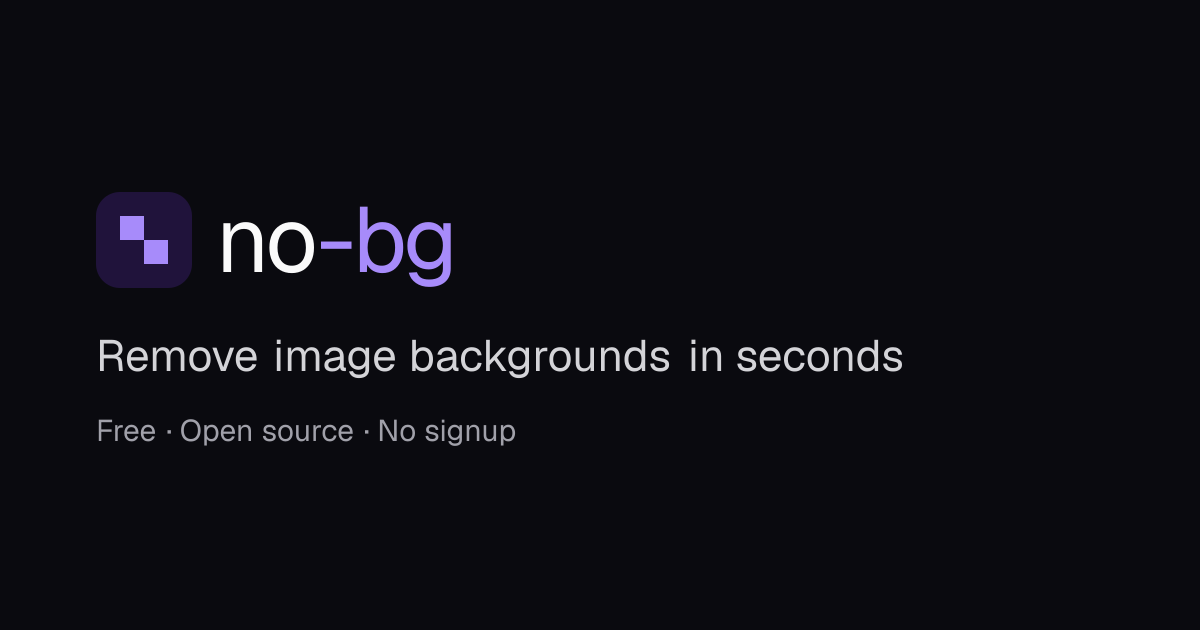
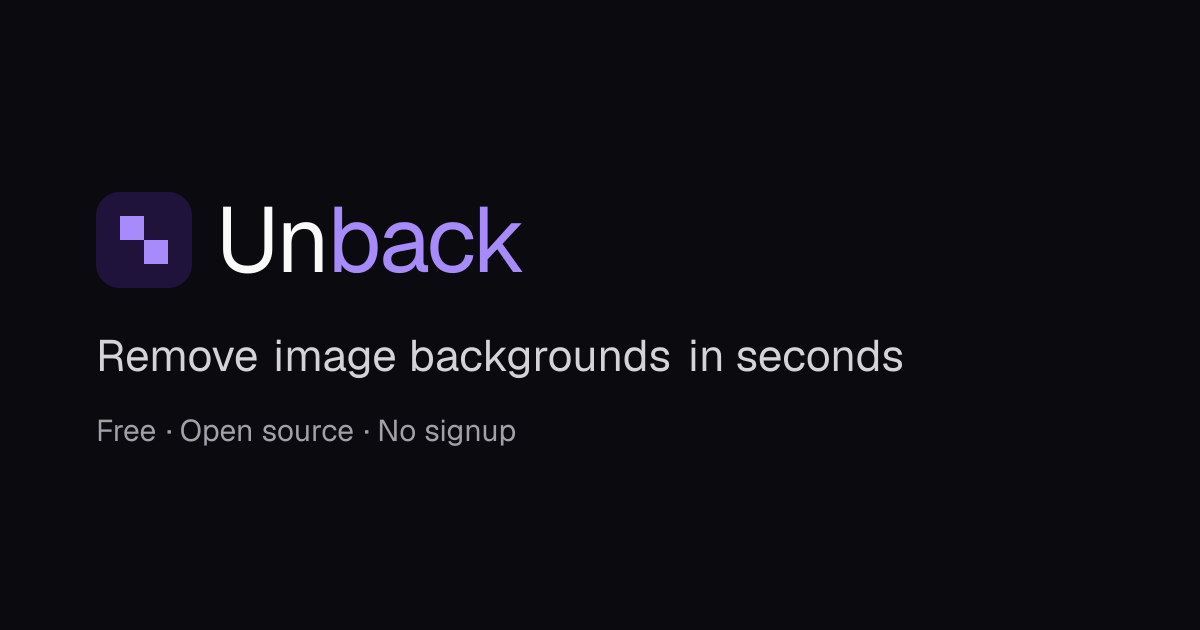
feat: rename the project to unback
new name, new home: unback.app. namespace, config section and env
prefix become Unback, the download is unback.png, the image ships as
ghcr.io/davidebriscese/unback, and the wordmark, og image and all copy
follow.

Changed region(s): [[0.185, 0.3317, 0.4317, 0.4524]]

diff --git a/frontend/lib/i18n/it.ts b/frontend/lib/i18n/it.ts
@@ -2,10 +2,10 @@ import type { Dictionary } from "./en";
 
 export const it: Dictionary = {
   meta: {
-    title: "no-bg — Rimuovi lo sfondo dalle immagini, gratis",
+    title: "Unback — Rimuovi lo sfondo dalle immagini, gratis",
     description:
       "Rimuovi lo sfondo da qualsiasi immagine in pochi secondi. Gratis, open source, senza registrazione: le immagini sono elaborate in memoria e mai salvate.",
-    ogAlt: "no-bg — rimozione sfondo gratuita",
+    ogAlt: "Unback — rimozione sfondo gratuita",
   },
 
   header: {
@@ -64,7 +64,7 @@ export const it: Dictionary = {
   },
 
   features: {
-    title: "Perché no-bg?",
+    title: "Perché Unback?",
     items: [
       {
         title: "Gratis davvero",
@@ -96,7 +96,7 @@ export const it: Dictionary = {
       {
         question: "È davvero gratis?",
         answer:
-          "Sì. no-bg è open source con licenza MIT e questa istanza è gratuita, con limiti d'uso equi che la mantengono veloce per tutti.",
+          "Sì. Unback è open source con licenza MIT e questa istanza è gratuita, con limiti d'uso equi che la mantengono veloce per tutti.",
       },
       {
         question: "Che fine fanno le mie immagini?",

diff --git a/frontend/lib/i18n/en.ts b/frontend/lib/i18n/en.ts
@@ -6,10 +6,10 @@
  */
 export const en = {
   meta: {
-    title: "no-bg — Free AI Background Remover",
+    title: "Unback — Free AI Background Remover",
     description:
       "Remove the background from any image in seconds. Free, open source, no signup — your images are processed in memory and never stored.",
-    ogAlt: "no-bg — free background remover",
+    ogAlt: "Unback — free background remover",
   },
 
   header: {
@@ -68,7 +68,7 @@ export const en = {
   },
 
   features: {
-    title: "Why no-bg?",
+    title: "Why Unback?",
     items: [
       {
         title: "Actually free",
@@ -100,7 +100,7 @@ export const en = {
       {
         question: "Is it really free?",
         answer:
-          "Yes. no-bg is open source under the MIT licence, and this instance is free to use with fair rate limits that keep it fast for everyone.",
+          "Yes. Unback is open source under the MIT licence, and this instance is free to use with fair rate limits that keep it fast for everyone.",
       },
       {
         question: "What happens to my images?",

diff --git a/frontend/app/[locale]/layout.tsx b/frontend/app/[locale]/layout.tsx
@@ -41,7 +41,7 @@ export async function generateMetadata({
     metadataBase: new URL(SITE_URL),
     title: dictionary.meta.title,
     description: dictionary.meta.description,
-    applicationName: "no-bg",
+    applicationName: "Unback",
     alternates: {
       canonical: path,
       languages: {
@@ -51,7 +51,7 @@ export async function generateMetadata({
     },
     openGraph: {
       type: "website",
-      siteName: "no-bg",
+      siteName: "Unback",
       url: path,
       title: dictionary.meta.title,
       description: dictionary.meta.description,
@@ -79,7 +79,7 @@ export default async function LocaleLayout({
   const structuredData = {
     "@context": "https://schema.org",
     "@type": "WebApplication",
-    name: "no-bg",
+    name: "Unback",
     url: new URL(localeInfo[locale].path, SITE_URL).toString(),
     description: dictionary.meta.description,
     applicationCategory: "DesignApplication",

diff --git a/frontend/lib/site.ts b/frontend/lib/site.ts
@@ -2,8 +2,8 @@
  * Public identity of this deployment. NEXT_PUBLIC_* values are inlined at build time, so a
  * self-hosted build without them still works — only canonical URLs fall back to the placeholder.
  */
-export const SITE_URL = process.env.NEXT_PUBLIC_SITE_URL ?? "https://no-bg.app";
+export const SITE_URL = process.env.NEXT_PUBLIC_SITE_URL ?? "https://unback.app";
 
-export const GITHUB_URL = "https://github.com/davidebriscese/no-bg";
+export const GITHUB_URL = "https://github.com/davidebriscese/unback";
 
 export const OPENAPI_URL = "/openapi/v1.json";

diff --git a/frontend/components/sections/api-example.tsx b/frontend/components/sections/api-example.tsx
@@ -19,7 +19,7 @@ export function ApiExample({ labels }: { labels: { copy: string; copied: string 
   );
   const [copied, setCopied] = useState(false);
 
-  const command = `curl -F "file=@photo.jpg" ${origin}/api/v1/remove -o no-bg.png`;
+  const command = `curl -F "file=@photo.jpg" ${origin}/api/v1/remove -o unback.png`;
 
   async function copy() {
     await navigator.clipboard.writeText(command);

diff --git a/frontend/lib/api.ts b/frontend/lib/api.ts
@@ -1,5 +1,5 @@
 /**
- * Client for the no-bg API. In production the app is served by the backend itself, so requests go
+ * Client for the Unback API. In production the app is served by the backend itself, so requests go
  * to the same origin; in development they cross over to the dotnet process.
  */
 const API_BASE =

diff --git a/frontend/components/logo.tsx b/frontend/components/logo.tsx
@@ -16,7 +16,7 @@ export function Logo() {
     <span className="flex items-center gap-2 text-lg font-semibold tracking-tight">
       <LogoMark />
       <span>
-        no<span className="text-primary">-bg</span>
+        Un<span className="text-primary">back</span>
       </span>
     </span>
   );

diff --git a/frontend/components/tool/background-remover.tsx b/frontend/components/tool/background-remover.tsx
@@ -281,6 +281,6 @@ export function BackgroundRemover({ dictionary }: { dictionary: Dictionary["tool
 function save(url: string) {
   const anchor = document.createElement("a");
   anchor.href = url;
-  anchor.download = "no-bg.png";
+  anchor.download = "unback.png";
   anchor.click();
 }

diff --git a/backend/Program.cs b/backend/Program.cs
@@ -3,7 +3,7 @@ using System.Reflection;
 using System.Threading.RateLimiting;
 using Microsoft.AspNetCore.Diagnostics;
 using Microsoft.Extensions.Options;
-using NoBg;
+using Unback;
 using SixLabors.ImageSharp;
 
 if (args is ["healthcheck"])
@@ -14,11 +14,11 @@ const string InferencePolicy = "inference";
 
 var builder = WebApplication.CreateBuilder(args);
 
-builder.Services.Configure<NoBgOptions>(builder.Configuration.GetSection(NoBgOptions.SectionName));
+builder.Services.Configure<UnbackOptions>(builder.Configuration.GetSection(UnbackOptions.SectionName));
 
 // Snapshot for the few knobs Kestrel and the pipeline need before DI exists. Everything reached
 // per request goes through IOptions instead, so configuration stays overridable.
-var startup = builder.Configuration.GetSection(NoBgOptions.SectionName).Get<NoBgOptions>() ?? new NoBgOptions();
+var startup = builder.Configuration.GetSection(UnbackOptions.SectionName).Get<UnbackOptions>() ?? new UnbackOptions();
 
 var version = (Assembly.GetExecutingAssembly()
         .GetCustomAttribute<AssemblyInformationalVersionAttribute>()?.InformationalVersion ?? "0.0.0")
@@ -96,13 +96,13 @@ builder.Services.AddRequestTimeouts(timeouts =>
 
 builder.Services.AddOpenApi(openApi => openApi.AddDocumentTransformer((document, _, _) =>
 {
-    document.Info.Title = "no-bg API";
+    document.Info.Title = "Unback API";
     document.Info.Version = "v1";
     document.Info.Description =
         "Free background removal. Send an image, get a transparent PNG back — no API key, no signup.\n\n"
         + $"Fair use: {startup.RateLimit.PermitLimit} requests per {startup.RateLimit.WindowSeconds}s and "
         + $"{startup.RateLimit.DailyLimit} per day, per IP address. Rejected requests answer 429 with a "
-        + "Retry-After header. Need more? Self-host: https://github.com/davidebriscese/no-bg";
+        + "Retry-After header. Need more? Self-host: https://github.com/davidebriscese/unback";
     return Task.CompletedTask;
 }));
 
@@ -112,7 +112,7 @@ var modelsDirectory = Path.Combine(builder.Environment.ContentRootPath, "Models"
 // tests override IBackgroundRemover and never touch the concrete type.
 builder.Services.AddSingleton(sp =>
 {
-    var config = sp.GetRequiredService<IOptions<NoBgOptions>>().Value;
+    var config = sp.GetRequiredService<IOptions<UnbackOptions>>().Value;
     return new BackgroundRemover(
         config.Model,
         Path.Combine(modelsDirectory, $"{config.Model.Name}.onnx"),
@@ -151,7 +151,7 @@ app.UseRequestTimeouts();
 
 if (!app.Environment.IsEnvironment("Testing"))
 {
-    var config = app.Services.GetRequiredService<IOptions<NoBgOptions>>().Value;
+    var config = app.Services.GetRequiredService<IOptions<UnbackOptions>>().Value;
     await ModelDownloader.EnsureModelAsync(
         Path.Combine(modelsDirectory, $"{config.Model.Name}.onnx"), config.Model, app.Logger);
 
@@ -169,7 +169,7 @@ app.MapGet("/healthz", (IBackgroundRemover bg) => new HealthResponse("ok", bg.Mo
 app.MapPost("/api/v1/remove", async Task<IResult> (
         IFormFile? file,
         IBackgroundRemover bg,
-        IOptions<NoBgOptions> config,
+        IOptions<UnbackOptions> config,
         HttpContext http) =>
     {
         var options = config.Value;
@@ -215,7 +215,7 @@ app.MapPost("/api/v1/remove", async Task<IResult> (
 
             // Results are user photos: never let a browser or proxy keep them.
             http.Response.Headers.CacheControl = "no-store";
-            return Results.File(png, "image/png", "no-bg.png");
+            return Results.File(png, "image/png", "unback.png");
         }
         catch (UnknownImageFormatException)
         {
@@ -251,6 +251,6 @@ static string ClientKey(HttpContext context) =>
     context.Connection.RemoteIpAddress?.ToString() ?? "unknown";
 
 static RateLimitOptions RateLimitOf(HttpContext context) =>
-    context.RequestServices.GetRequiredService<IOptions<NoBgOptions>>().Value.RateLimit;
+    context.RequestServices.GetRequiredService<IOptions<UnbackOptions>>().Value.RateLimit;
 
 public partial class Program;

diff --git a/backend.Tests/RateLimitTests.cs b/backend.Tests/RateLimitTests.cs
@@ -2,7 +2,7 @@ using System.Net;
 using System.Net.Http.Json;
 using Xunit;
 
-namespace NoBg.Tests;
+namespace Unback.Tests;
 
 public class RateLimitTests
 {
@@ -16,8 +16,8 @@ public class RateLimitTests
     {
         using var factory = new ApiFactory(new()
         {
-            ["NoBg:RateLimit:PermitLimit"] = "2",
-            ["NoBg:RateLimit:WindowSeconds"] = "60",
+            ["Unback:RateLimit:PermitLimit"] = "2",
+            ["Unback:RateLimit:WindowSeconds"] = "60",
         });
         using var client = factory.CreateClient();
 
@@ -37,8 +37,8 @@ public class RateLimitTests
     {
         using var factory = new ApiFactory(new()
         {
-            ["NoBg:RateLimit:PermitLimit"] = "100",
-            ["NoBg:RateLimit:DailyLimit"] = "3",
+            ["Unback:RateLimit:PermitLimit"] = "100",
+            ["Unback:RateLimit:DailyLimit"] = "3",
         });
         using var client = factory.CreateClient();
 
@@ -58,8 +58,8 @@ public class RateLimitTests
     {
         using var factory = new ApiFactory(new()
         {
-            ["NoBg:RateLimit:PermitLimit"] = "100",
-            ["NoBg:RateLimit:DailyLimit"] = "0",
+            ["Unback:RateLimit:PermitLimit"] = "100",
+            ["Unback:RateLimit:DailyLimit"] = "0",
         });
         using var client = factory.CreateClient();
 
@@ -72,8 +72,8 @@ public class RateLimitTests
     {
         using var factory = new ApiFactory(new()
         {
-            ["NoBg:RateLimit:PermitLimit"] = "1",
-            ["NoBg:RateLimit:DailyLimit"] = "1",
+            ["Unback:RateLimit:PermitLimit"] = "1",
+            ["Unback:RateLimit:DailyLimit"] = "1",
         });
         using var client = factory.CreateClient();
 

diff --git a/backend.Tests/RemoveEndpointTests.cs b/backend.Tests/RemoveEndpointTests.cs
@@ -2,7 +2,7 @@ using System.Net;
 using System.Net.Http.Json;
 using Xunit;
 
-namespace NoBg.Tests;
+namespace Unback.Tests;
 
 public class RemoveEndpointTests
 {
@@ -21,7 +21,7 @@ public class RemoveEndpointTests
 
         Assert.Equal(HttpStatusCode.OK, response.StatusCode);
         Assert.Equal("image/png", response.Content.Headers.ContentType?.MediaType);
-        Assert.Equal("no-bg.png", response.Content.Headers.ContentDisposition?.FileName);
+        Assert.Equal("unback.png", response.Content.Headers.ContentDisposition?.FileName);
         Assert.True(response.Headers.CacheControl?.NoStore);
         Assert.Equal(FakeBackgroundRemover.Result, await response.Content.ReadAsByteArrayAsync());
     }
@@ -81,7 +81,7 @@ public class RemoveEndpointTests
     [Fact]
     public async Task Oversized_file_is_rejected()
     {
-        using var factory = new ApiFactory(new() { ["NoBg:MaxUploadBytes"] = "1024" });
+        using var factory = new ApiFactory(new() { ["Unback:MaxUploadBytes"] = "1024" });
         using var client = factory.CreateClient();
 
         using var response = await client.PostAsync(Endpoint, ApiFactory.Upload(new byte[2048]));
@@ -93,7 +93,7 @@ public class RemoveEndpointTests
     [Fact]
     public async Task Image_with_too_many_pixels_is_rejected_before_decoding()
     {
-        using var factory = new ApiFactory(new() { ["NoBg:MaxImagePixels"] = "100" });
+        using var factory = new ApiFactory(new() { ["Unback:MaxImagePixels"] = "100" });
         using var client = factory.CreateClient();
 
         using var response = await client.PostAsync(Endpoint, ApiFactory.Upload(ApiFactory.PngBytes(20, 20)));

diff --git a/backend.Tests/RealModelSmokeTests.cs b/backend.Tests/RealModelSmokeTests.cs
@@ -1,16 +1,16 @@
 using System.Net;
 using Xunit;
 
-namespace NoBg.Tests;
+namespace Unback.Tests;
 
 /// <summary>
-/// Exercises a running instance with the real model. Opt in with NOBG_E2E=1 (and optionally
-/// NOBG_E2E_URL); skipped otherwise, so CI never downloads 170MB of weights.
+/// Exercises a running instance with the real model. Opt in with UNBACK_E2E=1 (and optionally
+/// UNBACK_E2E_URL); skipped otherwise, so CI never downloads 170MB of weights.
 /// </summary>
 public class RealModelSmokeTests
 {
-    private static string? BaseUrl => Environment.GetEnvironmentVariable("NOBG_E2E") == "1"
-        ? Environment.GetEnvironmentVariable("NOBG_E2E_URL") ?? "http://localhost:5210"
+    private static string? BaseUrl => Environment.GetEnvironmentVariable("UNBACK_E2E") == "1"
+        ? Environment.GetEnvironmentVariable("UNBACK_E2E_URL") ?? "http://localhost:5210"
         : null;
 
     [Fact]
